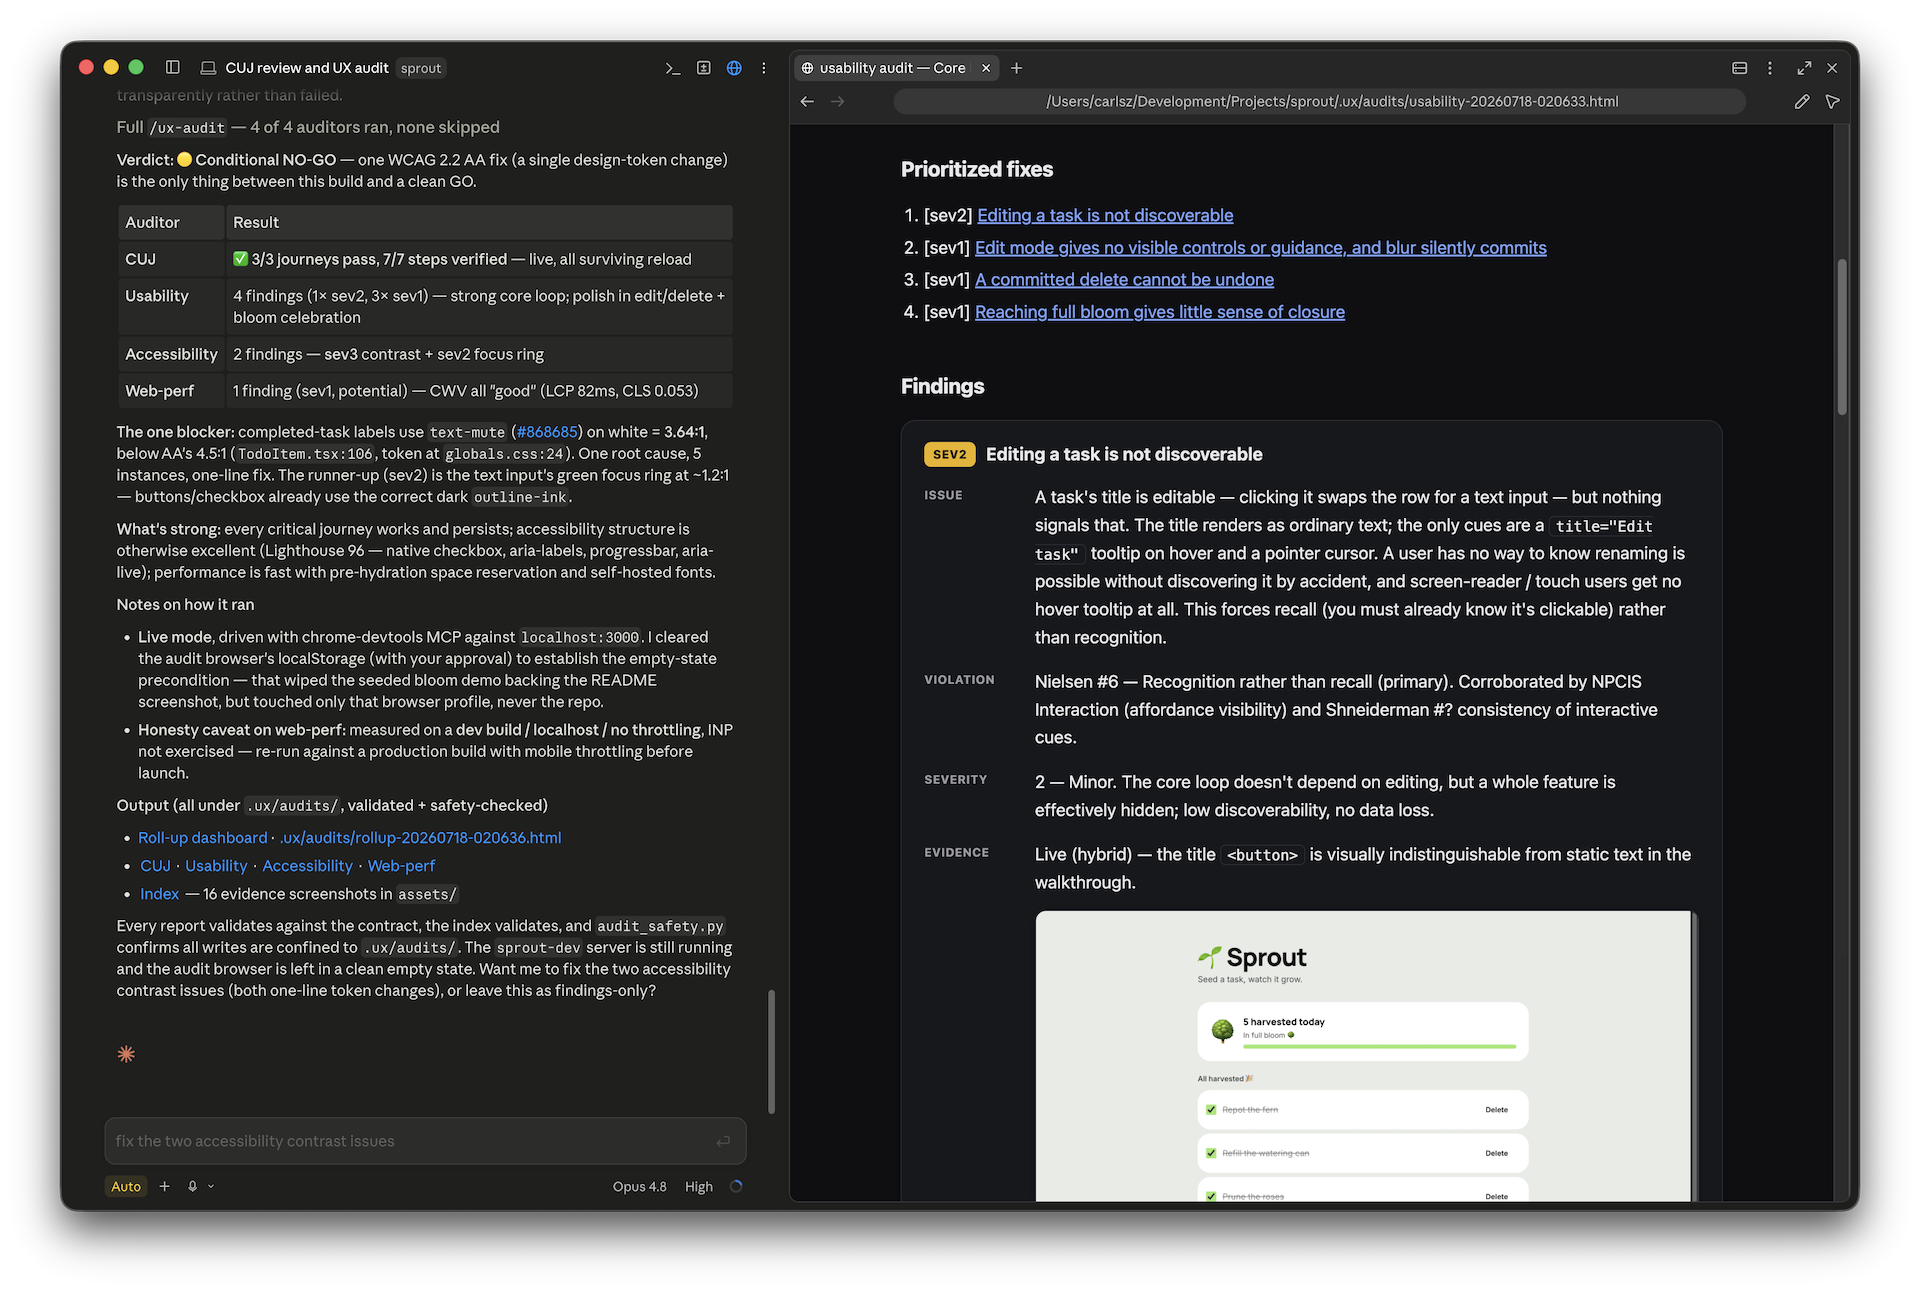
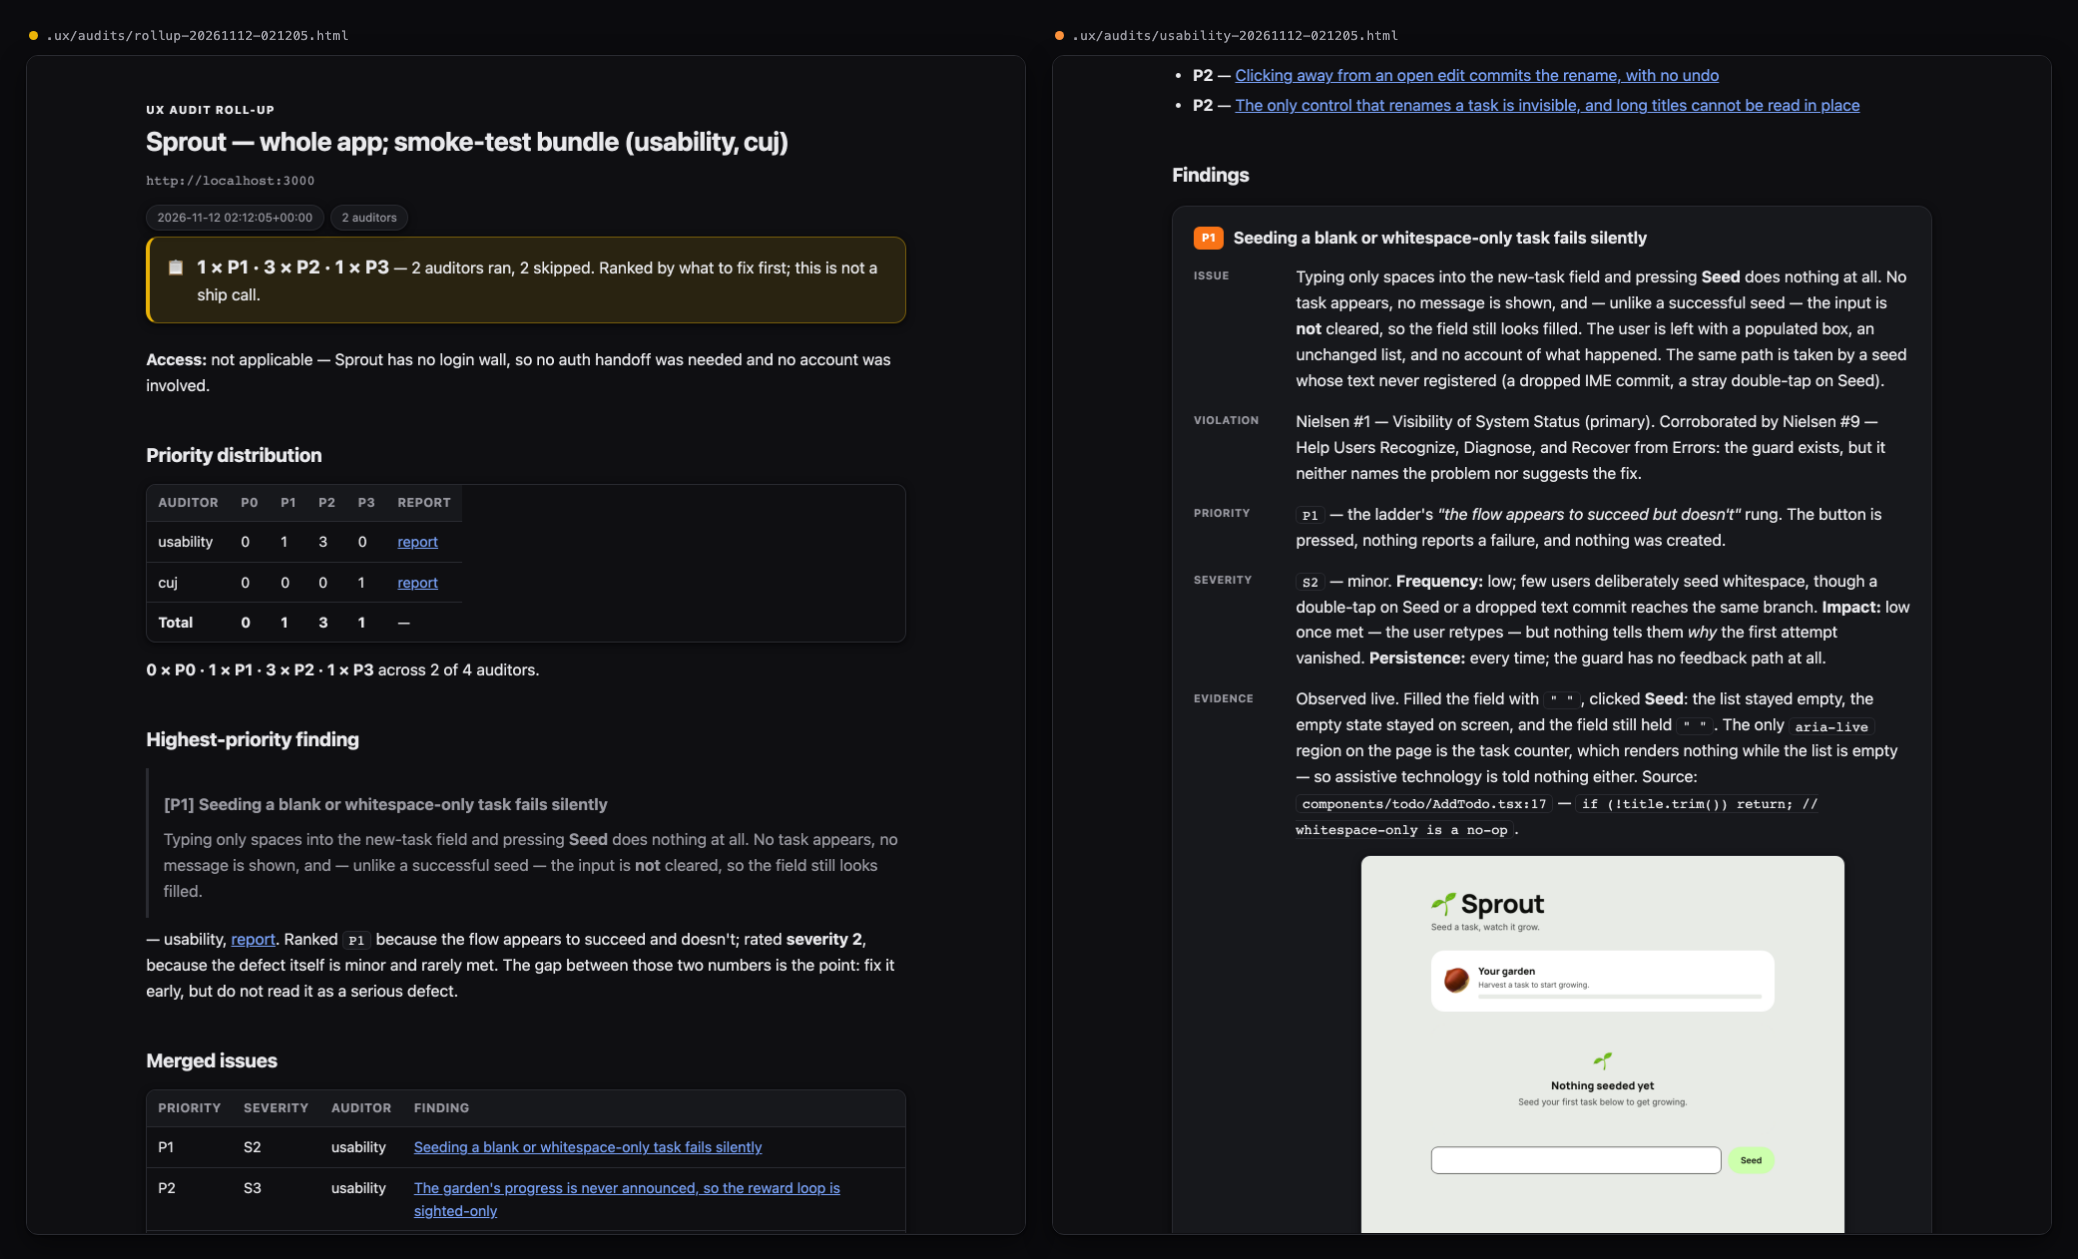
Re-capture the README figure from a live 0.7.1 run
0.7.0 shipped `docs/images/audit-review.png` as a Known item: it was a
0.6.1 capture showing the go/no-go verdict banner and `sev`-badged cards,
and re-capturing it needed a live `/ux-audit` against a host app. A
smoke-test run against Sprout supplied one.

The new figure is the roll-up dashboard beside the usability report's
first finding card, both rendered from the Markdown next to them. It
shows what the rating change actually did: the headline distribution
where the verdict used to be, with the no-ship-call note; `Priority` and
`Severity` as separate columns in the merged-issues table and as separate
labelled fields on the card; and a `P1` rated severity 2 that outranks a
severity-3 finding, which is the whole argument for two numbers.

**It no longer shows the Claude Code session the old capture did.** A
transcript cannot be re-shot without re-staging the session, and staging
one would illustrate a run that never happened - so the figure now shows
only the artifacts, which are reproducible from the reports in the host
repo. The caption and alt text say what the image shows rather than what
the old one did.

0.7.0's `### Known` entry is left as it stands: it was true of 0.7.0, and
a released section is a record, not a draft. This change is docs-only and
is filed under `## [Unreleased]` with no version bump.

diff --git a/README.md b/README.md
@@ -282,15 +282,16 @@ That writes one normalized report per auditor plus a `rollup-<timestamp>.md` wit
 per-auditor priority table and the suite-wide distribution — all under `Sprout/.ux/audits/`,
 and nothing else in the repo is touched.
 
-![A completed /ux-audit run of Sprout in Claude Code: the roll-up verdict banner and per-auditor table on the left, and the self-contained HTML usability report — findings as cards, prioritized fixes — open in a browser on the right.](docs/images/audit-review.png)
+![Two HTML companions from a /ux-audit run of Sprout, side by side. Left, the roll-up dashboard: a headline reading 1 x P1, 3 x P2, 1 x P3 with the note that this is not a ship call, a per-auditor priority distribution table, the highest-priority finding quoted, and a merged issues table whose Priority and Severity are separate columns. Right, the usability report's first finding card, badged P1, with Issue, Violation, Priority, Severity and Evidence as labelled fields and an embedded screenshot of Sprout's empty state.](docs/images/audit-review.png)
 
-*A full `/ux-audit` roll-up in the session, and the derived HTML report open in a browser.
-Everything under `.ux/audits/`; nothing else in the host repo is touched.*
+*The roll-up dashboard and one finding card, both rendered by `/ux-review` from the Markdown
+beside them. Everything under `.ux/audits/`; nothing else in the host repo is touched.*
 
-> **This capture is from 0.6.1.** It shows the go/no-go verdict banner that 0.7.0 replaced
-> with the priority distribution, and `sev`-badged cards rather than `P`-badged ones.
-> Re-capturing it needs a live `/ux-audit` run against a host app; until then the surrounding
-> prose, not the screenshot, is authoritative.
+The two ratings are the thing to read here. That `P1` is rated **severity 2** — a minor defect,
+rarely met — and it still outranks a severity-3 finding below it, because it fails *silently*.
+Priority answers what to fix first; severity says what the defect actually is. The roll-up
+names the worst finding and makes no ship call: that needs release context the suite does not
+have.
 
 ## Contributing
 

diff --git a/CHANGELOG.md b/CHANGELOG.md
@@ -6,6 +6,17 @@ All notable changes to this project are documented here. The format is based on
 
 ## [Unreleased]
 
+### Changed
+- **`docs/images/audit-review.png` is re-captured from a live 0.7.1 run.** It had been a
+  0.6.1 capture since the rating change, showing the go/no-go banner and `sev`-badged cards -
+  0.7.0 shipped that as a Known item because re-capturing needed a live `/ux-audit` against a
+  host app. The new figure is the roll-up dashboard beside a finding card, from an audit of
+  [Sprout](https://github.com/carlsz/sprout): the headline distribution in place of the
+  verdict, `Priority` and `Severity` as separate columns in the merged-issues table, and as
+  separate labelled fields on the card. It no longer shows the Claude Code session that the
+  0.6.1 capture did - a transcript cannot be re-shot without re-staging the session, and a
+  staged one would illustrate a run that never happened.
+
 ## [0.7.1] - 2026-11-12
 
 ### Fixed
